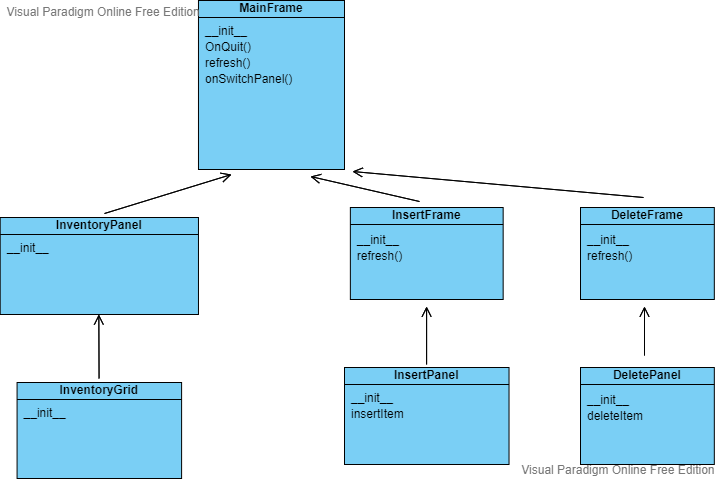
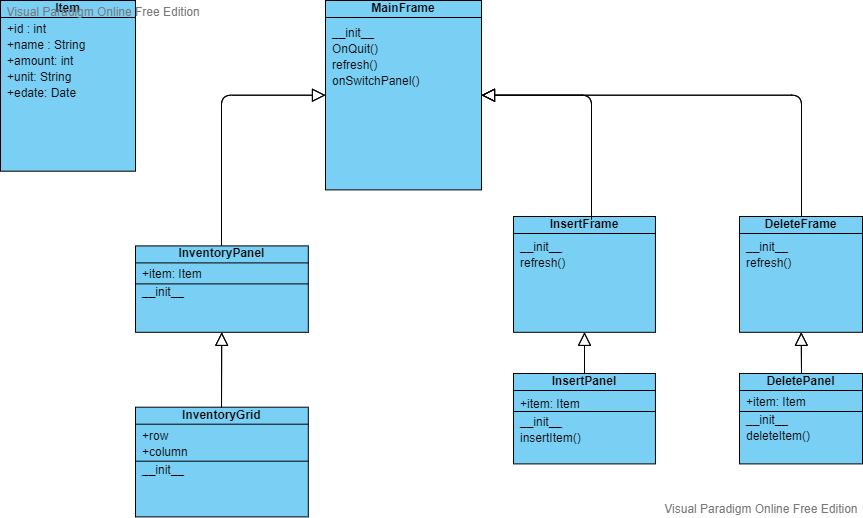
Added New Model

diff --git a/requirements.md b/requirements.md
@@ -32,7 +32,7 @@ Requirements Specification for Restaurant Management System
 
     ![Domain Model](/assets/DomainModel.png)
 
-    - This UML Domain Model describes the software for the application. The main and central class is the MainFrame, which contains various GUI methods, which will switch between panels. The InventoryPanel class inherits from the MainFrame class, and the MainFrame class contains a panel which is displayed in the frame from the MainFrame class. The InsertFrame and DeleteFrame classes inherit from the MainFrame class. Each of these classes also have a child Panel which can be turned on or off, which also contains GUI content. The InsertPanel and DeletePanel have methods to modify and change the food database. The application depends on the MainFrame running in a main loop, while the children classes have objects that can be destroyed and created based on GUI actions and buttons.
+    - This UML Domain Model describes the software for the application. The main and central class is the MainFrame, which contains various GUI methods, which will switch between panels. The InventoryPanel class inherits from the MainFrame class, and the MainFrame class contains a panel which is displayed in the frame from the MainFrame class. The InsertFrame and DeleteFrame classes inherit from the MainFrame class. Each of these classes also have a child Panel which can be turned on or off, which also contains GUI content. The InsertPanel and DeletePanel have methods to modify and change the food database. These methods use the attriutes of id, name, amount, unit, and expiration date to enter this information from the panels (entered by the user) into the database. The application depends on the MainFrame running in a main loop, while the children classes have objects that can be destroyed and created based on GUI actions and buttons.
     
   - III. Product Functions
     - The main function of this product is to have a central application and system for storing information about food inventory counts and expiration dates. The system would also be able to give information about product usage deviation and be completely self-servable -- meaning that one the user receives the software, they can do everything they need themselves.
